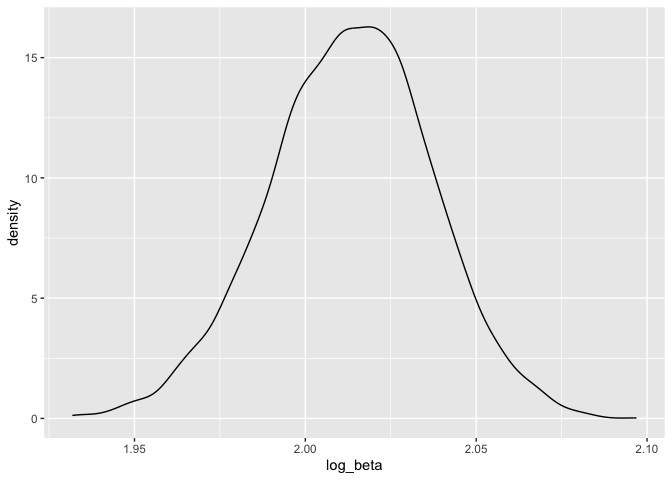
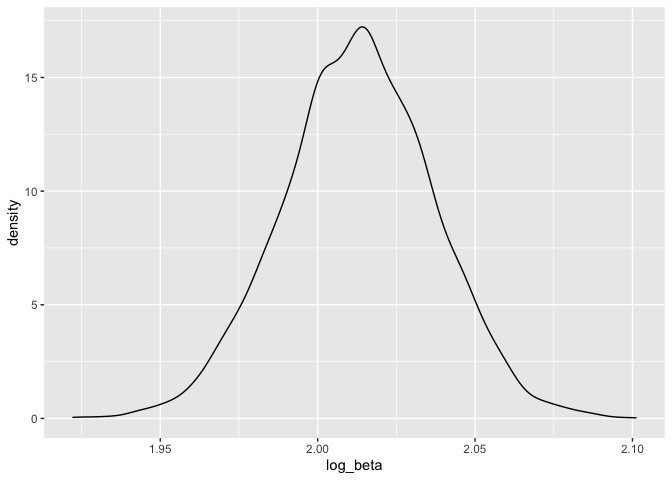
Finish problem 1.

diff --git a/p8105_hw6_mm6410.md b/p8105_hw6_mm6410.md
@@ -66,10 +66,11 @@ weather_df |>
   mean()
 ```
 
-    ## [1] 0.9114504
+    ## [1] 0.9114676
 
 We can see from the density plot of the R-squared estimates that it is
-normally distributed. The mean of the R-squared estimates is 0.911.
+approximately normally distributed. The mean of the R-squared estimates
+is 0.911.
 
 ### Plotting the log($\hat{\beta}_{0}$ \* $\hat{\beta}_{1}$)
 
@@ -80,3 +81,52 @@ weather_df |>
 ```
 
 ![](p8105_hw6_mm6410_files/figure-gfm/unnamed-chunk-5-1.png)<!-- -->
+
+``` r
+weather_df |> 
+  pull(log_beta) |> 
+  mean()
+```
+
+    ## [1] 2.012857
+
+Similarly, we can see from the density plot of the log($\hat{\beta}_{0}$
+\* $\hat{\beta}_{1}$) estimates that it is also approximately normally
+distributed with a mean of 2.013.
+
+### Finding the 2.5% and 97.5% quantiles
+
+``` r
+weather_df |> 
+  select(strap, .id, glance) |> 
+  unnest(glance) |> 
+  select(.id, r.squared) |> 
+  summarize(
+    ci_low = quantile(r.squared, 0.025),
+    ci_up = quantile(r.squared, 0.975)
+  )
+```
+
+    ## # A tibble: 1 × 2
+    ##   ci_low ci_up
+    ##    <dbl> <dbl>
+    ## 1  0.894 0.927
+
+``` r
+weather_df |> 
+  summarize(
+    ci_low = quantile(log_beta, 0.025),
+    ci_up = quantile(log_beta, 0.975)
+  )
+```
+
+    ## # A tibble: 1 × 2
+    ##   ci_low ci_up
+    ##    <dbl> <dbl>
+    ## 1   1.97  2.06
+
+The 95% CI for the r-squared and log of the estimated intercept \*
+slope:
+
+- r-squared: (0.894, 0.928)
+- log($\hat{\beta}_{0}$ \* $\hat{\beta}_{1}$): (1.97, 2.06)
